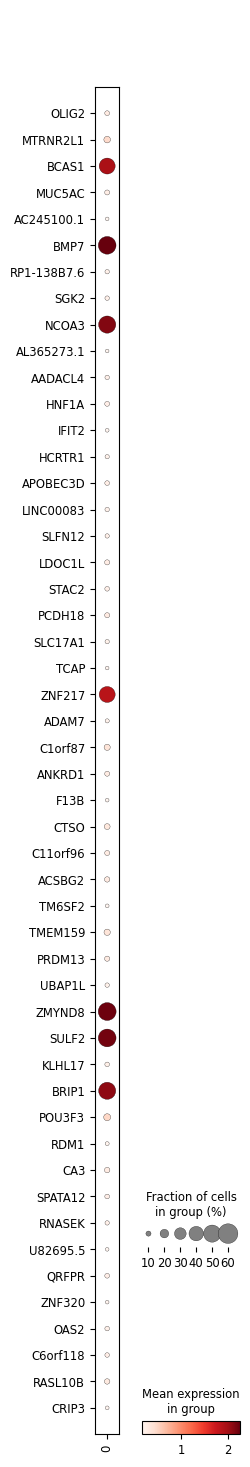
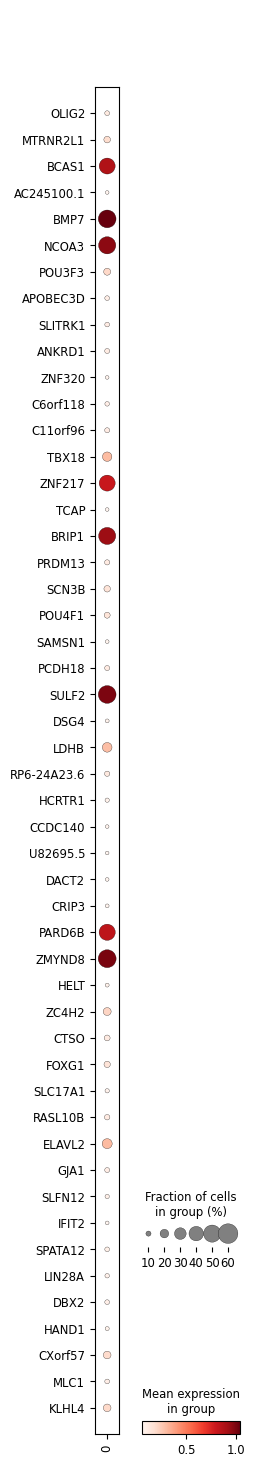
commit

diff --git a/README.md b/README.md
@@ -37,23 +37,30 @@ Single-cell sequencing is a useful technique to study gene regulation of individ
 
 ## II. Methods
 
+Figure 1.  Workflow of single-cell ATAC-seq.
+
+<img src="workflow_scatacseq.png" style="width: 40%; height: 40%;">
+
+
+<br>
+
 Datasets. <i>scRNA-seq</i>: raw data (Chromium, 10X Genomics) were obtained from NCBI GEO accession GSE176078 (Wu <i>et al.</i>, 2021).  Samples were sequenced by Illumina sequencer and data (mapped to hg38) were generated using Cell Ranger Single Cell v2.0 (10X Genomics).  Ten samples (estrogen receptor-positive (ER+), primary breast tumor: CID3941, CID4040, CID4463, CID4535; human epidermal growth factor receptor 2-positive (HER2+), primary breast tumor: CID3838, CID3921, CID45171; triple-negative breast cancer (TNBC), primary breast tumor: CID3946, CID4465, CID44041) were selected in this study.  <i>scATAC-seq</i>: preprocessed data (MCF-7 DMSO; 10X single-cell ATAC-seq) were obtained from GEO accession GSE190162 (Bommi-Reddy <i>et al.</i>, 2022).  Sample was sequenced by Illumina sequencer and data (mapped to hg38) were generated using Cell Ranger ATAC (10X Genomics).
 
-Data processing.  <i>scRNA-seq</i>: data in each sample were first filtered based on minimum number of cells required for each gene (removed if < 10), highly variable genes (kept only top 2,000 genes using Seurat v3 method), doublet detection using SOLO model (Bernstein <i>et al.</i>, 2020), minimum number of genes required for each cell (removed if < 200), and outliers (removed if gene count per cell exceeds 98 percentile).  Cells were also removed if mitochondrial and ribosomal gene percentages were greater than or equal to 20%.  Samples were then integrated afterward.  Data were normalized and filtered additionally for highly variable genes prior to transfer learning for cell type annotation.  Cell type reference in breast tissue data (TS_Mammary) from Tabula Sapiens Consortum (Science 376, eabl4896, 2022) was used as training labels.  SCVI model (an unsupervised generative model) was first used to pre-train data to learn latent representation, and followed by SCANVI model (a semi-supervised generative model) which was used to predict cell type for unlabled sample cells.  UMAP dimensional reduction was performed.  Leiden clustering was used to define specific cell type clusters.  Models were implemented with svi-tools in Python. <i>scATAC-seq</i>: data were further processed using Seurat v5.3.0 (Stuart <i>et al.</i>, 2019; Hao <i>et al.</i>, 2021; Hao <i>et al.</i>, 2023) and Signac v1.14.0 (Suart <i>et al.</i>, 2021) in R and in Python.  Doublets were removed using scDblFinder v1.16.0 (Germain <i>et al.</i>, 2022).  Cells with a high black-listed gene ratio (greater than or equal to 0.05) were removed, as previously described in the data processing method (Bommi-Reddy <i>et al.</i>, 2022).  Mitochondrial and ribosomal genes were removed prior.  The other two quality control metrics of ATAC-seq, namely nucleosome signal and transcriptional start site (TSS) enrichment score, were described in the ENCODE project.  Nucleosome signal is a measure of ratio of mononucleosomal to nucleosome-free fragments (https://www.encodeproject.org/atac-seq/), and TSS enrichment score is a signal-to-noise ratio of reads aggregated at the TSS to those in the flanking regions (https://www.encodeproject.org/data-standards/terms/).  The bottom 2% and top 98% were filtered out based on these two metrics.  Data were normalized.  Singular Value Decomposition (SVD) was used to reduced the number of variables in the data.  Latent semantic Indexing (LSI) method was used in UMAP dimensional reduction and clustering.  Genes (from EnsDB.Hsapiens.v86) were annotated based on chromatin accessiblilty peaks (gene activity) at the gene location for each cell.
+Data processing.  <i>scRNA-seq</i>: data in each sample were first filtered based on minimum number of cells required for each gene (removed if < 1000), minimum number of genes required for each cell (removed if < 200), doublet detection using SOLO model (Bernstein <i>et al.</i>, 2020), highly variable genes (kept only top 2,000 genes using Seurat v3 method), and outliers (removed if gene count per cell exceeds 98 percentile).  Cells were also removed if mitochondrial and ribosomal gene percentages were greater than or equal to 20%.  Samples were then integrated afterward.  Data were normalized and filtered additionally for highly variable genes prior to transfer learning for cell type annotation.  Cell type reference in breast tissue data (TS_Mammary) from Tabula Sapiens Consortum (Science 376, eabl4896, 2022) was used as training labels.  SCVI model (an unsupervised generative model) was first used to pre-train data to learn latent representation, and followed by SCANVI model (a semi-supervised generative model) which was used to predict cell type for unlabled sample cells.  UMAP dimensional reduction was performed.  Leiden clustering was used to define specific cell type clusters.  Models were implemented with svi-tools in Python. <i>scATAC-seq</i>: data were further processed using Seurat v5.3.0 (Stuart <i>et al.</i>, 2019; Hao <i>et al.</i>, 2021; Hao <i>et al.</i>, 2023) and Signac v1.14.0 (Suart <i>et al.</i>, 2021) in R and in Python.  Minimum number of genes required for each cell (removed if < 200) and minimum number of cells required for each gene (removed if < 100) were required.  Doublets were removed using scDblFinder v1.16.0 (Germain <i>et al.</i>, 2022).  Cells with a high black-listed gene ratio (greater than or equal to 0.05) were removed, as previously described in the data processing method (Bommi-Reddy <i>et al.</i>, 2022).  Ribosomal genes were removed prior.  The other two quality control metrics of ATAC-seq, namely nucleosome signal and transcriptional start site (TSS) enrichment score, were described in the ENCODE project.  Nucleosome signal is a measure of ratio of mononucleosomal to nucleosome-free fragments (https://www.encodeproject.org/atac-seq/), and TSS enrichment score is a signal-to-noise ratio of reads aggregated at the TSS to those in the flanking regions (https://www.encodeproject.org/data-standards/terms/).  The bottom 2% and top 98% were filtered out based on these two metrics.  Data were normalized.  Singular Value Decomposition (SVD) was used to reduced the number of variables in the data.  Latent semantic Indexing (LSI) method was used in UMAP dimensional reduction and clustering.  Genes (from EnsDB.Hsapiens.v86) were annotated based on chromatin accessiblilty peaks (gene activity) at the gene location for each cell.
 
 
 <br>
 
 ## III. Results
 
-<i>Single-cell analysis</i>.  <i>scRNA-seq</i>.  A total of 10 primary breast tumor samples consisting of 10,318 cells and 2,000 genes were analyzed.  Distinct cell types were identified by leiden clustering.  There were 7 cell type clusters overall, namely fibroblast cell, luminal L1 cell, luminal L2 cell, macrophage, plasma cell, T cell, and vascular endothelial cell (Figure 1A).  Individual sample cells were then mapped to the corresponding cell type clusters (Figure 1B).  Biomarker genes were used to verify the present cluster identity: CD3E for T cell; COL1A2 for fibroblast cell; CD4 for macrophage; PECAM1 for vascular endothelial cell; CLDN4 for luminal L1 cell (Nguyen <i>et al.</i>, 2018); ANKRD30A for luminal L2 cell (Nguyen <i>et al.</i>, 2018); and IGHG1 for plasma cell (Figure 1C).  By profiling gene expression, heterogenity in expression levels were observed in different cell types (Figure 1D).  <i>scATAC-seq</i>.  A MCF-7 cell line sample consisting of 1,589 cells and 2,000 genes was analyzed.  BCAS1 (Dave <i>et al.</i>, 2023), SULF2 (Zhu <i>et al.</i>, 2016), and ZNF27 (Littlepage <i>et al.</i>, 2012) were selected as biomarkers for MCF-7 (Figure 2A).  Noticeably, there were some cells there were low-expressed or not labeled by the marker genes.  The likely explanation may be due to the additon of DMSO which had been reported to cause changes in cell state in response to stress (Tuncer <i>et al.</i>, 2018; Sangweni <i>et al.</i>, 2021).  The results show heterogenity within the MCF-7 cell line (Figure 2B).
+<i>Single-cell analysis</i>.  <i>scRNA-seq</i>.  A total of 10 primary breast tumor samples consisting of 10,318 cells and 2,000 genes were analyzed.  Distinct cell types were identified by leiden clustering.  There were 7 cell type clusters overall, namely fibroblast cell, luminal L1 cell, luminal L2 cell, macrophage, plasma cell, T cell, and vascular endothelial cell (Figure 1A).  Individual sample cells were then mapped to the corresponding cell type clusters (Figure 1B).  Biomarker genes were used to verify the present cluster identity: CD3E for T cell; COL1A2 for fibroblast cell; CD4 for macrophage; PECAM1 for vascular endothelial cell; CLDN4 for luminal L1 cell (Nguyen <i>et al.</i>, 2018); ANKRD30A for luminal L2 cell (Nguyen <i>et al.</i>, 2018); and IGHG1 for plasma cell (Figure 1C).  By profiling gene expression, heterogenity in expression levels were observed in different cell types (Figure 1D).  <i>scATAC-seq</i>.  A MCF-7 cell line sample consisting of 1,588 cells and 2,000 genes was analyzed.  ZNF217 (Littlepage <i>et al.</i>, 2012) were selected as a biomarker for MCF-7 (Figure 2A).  Noticeably, there were some cells there were low-expressed or not labeled by the marker genes.  The likely explanation may be due to the additon of DMSO which had been reported to cause changes in cell state in response to stress (Tuncer <i>et al.</i>, 2018; Sangweni <i>et al.</i>, 2021).  The results show heterogenity within the MCF-7 cell line (Figure 2B).
 
-<i>APA analysis</i>.  Highly variable expressed genes were matched to the terminal region (TR) genes in PolyADB-v3x-LR database (https://github.com/wcjohnchen/database).  A complete list of TR genes found in scRNA-seq (1,864) and scATAC-seq data (1,770) can be viewed using a dotplot in analyze_data_sc_RNASeq.ipynb and analyze_data_sc_ATACSeq.ipynb, respectively.  In particular, there are a number of 3'UTR APA genes (104) associated with onocogenes, tumor suppressor genes, and APA regulatory factors that have been reported to play known roles in breast cancer (review paper: <i>Qiao et al.</i>, 2024).  Among those genes, AGR2, CCDN1, CDKN2C, COL1A2, CTNNBIP1, PIK3R1, PMEPA1, RBBP6, TIMP3, and TRPS1 were found in scRNA-seq data (Figure 3A); likewise, CCNE1, PDGFC, PTCH1, RBBP6, and WT1 were found in scATAC-seq data (Figure 3B).  These APA genes displayed distinct expression patterns specific to their cell types.
+<i>APA analysis</i>.  Highly variable expressed genes were matched to the terminal region (TR) genes in PolyADB-v3x-LR database (https://github.com/wcjohnchen/database).  A complete list of TR genes found in scRNA-seq (1,864) and scATAC-seq data (1,789) can be viewed using a dotplot in analyze_data_sc_RNASeq.ipynb and analyze_data_sc_ATACSeq.ipynb, respectively.  In particular, there are a number of 3'UTR APA genes (104) associated with onocogenes, tumor suppressor genes, and APA regulatory factors that have been reported to play known roles in breast cancer (review paper: <i>Qiao et al.</i>, 2024).  Among those genes, AGR2, CCDN1, CDKN2C, COL1A2, CTNNBIP1, PIK3R1, PMEPA1, RBBP6, TIMP3, and TRPS1 were found in scRNA-seq data (Figure 3A); likewise, PDGFC, WT1, SNCA, RBBP6, FGF2, TOP2A, PTCH1, HEY2, CSTF2 (displayed 3'UTR shorting using APARENT2 model: https://github.com/wcjohnchen/ML), and CPEB1 were found in scATAC-seq data (Figure 3B).  These APA genes displayed distinct expression patterns specific to their cell types.
 
 
 <br>
 
-Figure 1.  UMAP presentation of (A) cell type clusters (also see interactive UMAP plot), and (B) sample clusters in scRNA-seq primary breast tumor samples (also see interactive UMAP plot).  (C) Cell type identification by biomarker genes: CD3E (T cell), COL1A2 (fibroblast cell), CD14 (macrophage), PECAM1 (vein endothelial cell), CLDN4 (luminal L1 cell), ANKRD30A (luminal L2 cell), and IGHG1 (plasma cell).  (D) Dotplot of gene expression profile of cell types identified.  Gene rank based on gene variability (tope 25 highly variable genes shown in each group).  0: T-cell; 1: fibroblast cell; 2: macrophage; 3: vascular endothelial cell; 4: luminal L1 cell; 5: luminal L2 cell; 6: plasma cell.
+Figure 2.  UMAP presentation of (A) cell type clusters (also see interactive UMAP plot), and (B) sample clusters in scRNA-seq primary breast tumor samples (also see interactive UMAP plot).  (C) Cell type identification by biomarker genes: CD3E (T cell), COL1A2 (fibroblast cell), CD14 (macrophage), PECAM1 (vein endothelial cell), CLDN4 (luminal L1 cell), ANKRD30A (luminal L2 cell), and IGHG1 (plasma cell).  (D) Dotplot of gene expression profile of cell types identified.  Gene rank based on gene variability (tope 25 highly variable genes shown in each group).  0: T-cell; 1: fibroblast cell; 2: macrophage; 3: vascular endothelial cell; 4: luminal L1 cell; 5: luminal L2 cell; 6: plasma cell.
 
 
 (A)
@@ -79,7 +86,7 @@ Interactive UMAP plot: https://wcjohnchen.shinyapps.io/UMAP2/
 
 <br>
 
-Figure 2.  scATAC-seq MCF-7 cell line sample.  (A) Identification by biomarker genes: BCAS1, SULF2, and ZNF217. (B) Dotplot of gene expression profile.  Gene rank based on gene variability (top 50 highly variable genes shown).  0: MCF-7.
+Figure 3.  scATAC-seq MCF-7 cell line sample.  (A) Identification by biomarker gene ZNF217. (B) Dotplot of gene expression profile.  Gene rank based on gene variability (top 50 highly variable genes shown).  0: MCF-7.
 
 (A)
 
@@ -92,7 +99,7 @@ Figure 2.  scATAC-seq MCF-7 cell line sample.  (A) Identification by biomarker g
 
 <br>
 
-Figure 3.  Dot plots of previously-reported breast cancer 3'UTR APA genes (Qiao <i>et al.</i>, 2024) in (A) cell types of primary breast tumor samples using scRNA-seq, and (B) MCF-7 sample using scATAC-seq.  0: MCF-7.
+Figure 4.  Dot plots of previously-reported breast cancer 3'UTR APA genes (Qiao <i>et al.</i>, 2024) in (A) cell types of primary breast tumor samples using scRNA-seq, and (B) MCF-7 sample using scATAC-seq.  0: MCF-7.
 
 (A)
 
@@ -107,7 +114,7 @@ Figure 3.  Dot plots of previously-reported breast cancer 3'UTR APA genes (Qiao 
 
 ## IV. Conclusion
 
-The present study used single-cell bioinformatics data processing and analysis techniques to study alternative polyadenlyation.  Heterogeous expression of 3'UTR APA genes were found in different cell population of breast cancer microenvironment, which provides additional glimpse to how APA regulation may contribute to dynamic interaction between cell types in the diseased model.
+The present study used single-cell bioinformatics data processing and analysis techniques to study alternative polyadenlyation.  Heterogeous expression of 3'UTR APA genes were found in different cell population of breast cancer microenvironment.  Further downstream analysis would provide additional glimpse to how APA regulation may contribute to dynamic interaction between cell types in the diseased model.
 
 
 <br>
@@ -141,8 +148,6 @@ Bogard N, Linder J, Rosenberg AB, and Seelig G. 2019.  A Deep Neural Network for
 
 Bommi-Reddy A, Park-Chouinard S, Mayhew DN, Terzo E, Hingway A, Steinbaugh MJ, Wilson JE, Sims RJ 3rd, and Conery AR.  2022.  CREBBP/EP300 acetyltransferase inhibition disrupts FOXA1-bound enhancers to inhibit the proliferation of ER+ breast cancer cells.  PLoS One, 30;17(3):e0262378.  doi: 10.1371/journal.pone.0262378.
 
-Dave A, Charytonowicz D, Francoeur NJ, Beaumont M, Beaumont K, Schmidt H, Zeleke T, Silva J, and Sebra R.  2023.  The Breast Cancer Single-Cell Atlas: Defining cellular heterogeneity within model cell lines and primary tumors to inform disease subtype, stemness, and treatment options.  Cell Oncol (Dordr), 46(3):603-628.  doi: 10.1007/s13402-022-00765-7.
-
 Germain PL, Lun A, Garcia Meixide C, Macnair W, and Robinson MD.  2021.  Doublet identification in single-cell sequencing data using scDblFinder.  F1000Res, 10:979. doi: 10.12688/f1000research.73600.2.
 
 Hao Y, Hao S, Andersen-Nissen E, Mauck WM 3rd, Zheng S, Butler A, Lee MJ, Wilk AJ, Darby C, Zager M, Hoffman P, Stoeckius M, Papalexi E, Mimitou EP, Jain J, Srivastava A, Stuart T, Fleming LM, Yeung B, Rogers AJ, McElrath JM, Blish CA, Gottardo R, Smibert P, and Satija R.  2021.  Integrated analysis of multimodal single-cell data.  Cell, 184(13):3573-3587.e29.  doi: 10.1016/j.cell.2021.04.048.
@@ -166,6 +171,4 @@ Stuart T, Srivastava A, Madad S, Lareau CA, and Satija R.  2022.  Single-cell ch
 Tunçer S, Gurbanov R, Sheraj I, Solel E, Esenturk O, and Banerjee S.  2018.  Low dose dimethyl sulfoxide driven gross molecular changes have the potential to interfere with various cellular processes.  Sci Rep, 8(1):14828.  doi: 10.1038/s41598-018-33234-z.
 
 Wu SZ, Al-Eryani G, Roden DL, Junankar S, Harvey K, Andersson A, Thennavan A, Wang C, Torpy JR, Bartonicek N, Wang T, Larsson L, Kaczorowski D, Weisenfeld NI, Uytingco CR, Chew JG, Bent ZW, Chan CL, Gnanasambandapillai V, Dutertre CA, Gluch L, Hui MN, Beith J, Parker A, Robbins E, Segara D, Cooper C, Mak C, Chan B, Warrier S, Ginhoux F, Millar E, Powell JE, Williams SR, Liu XS, O'Toole S, Lim E, Lundeberg J, Perou CM, and Swarbrick A.  2021.  A single-cell and spatially resolved atlas of human breast cancers.  Nat Genet, 53(9):1334-1347.  doi: 10.1038/s41588-021-00911-1.
-
-Zhu C, He L, Zhou X, Nie X, and Gu Y.  2016.  Sulfatase 2 promotes breast cancer progression through regulating some tumor-related factors.  Oncol Rep, 35(3):1318-28.  doi: 10.3892/or.2015.4525.
 
